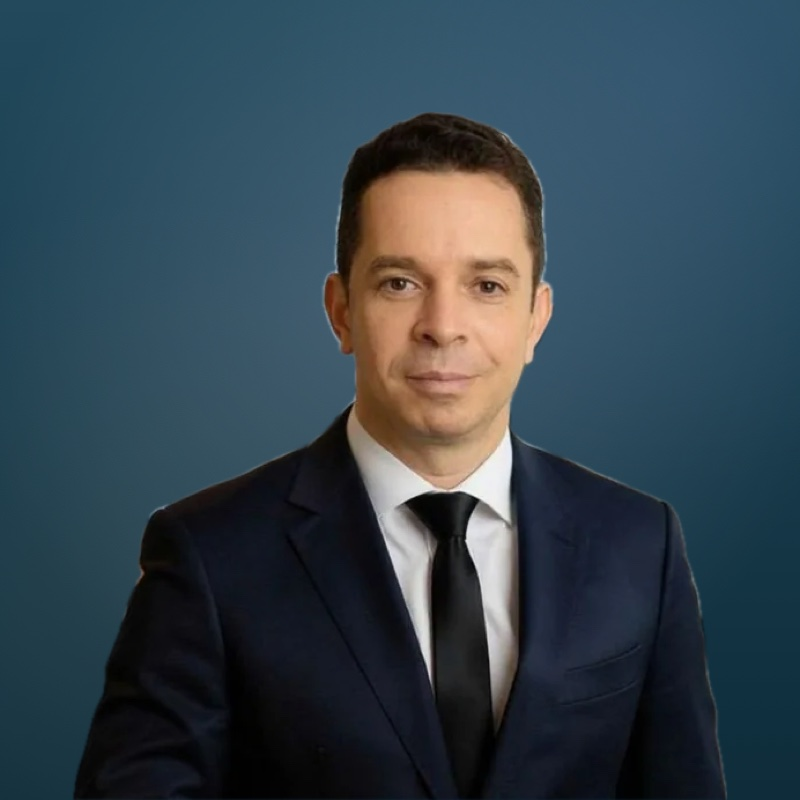
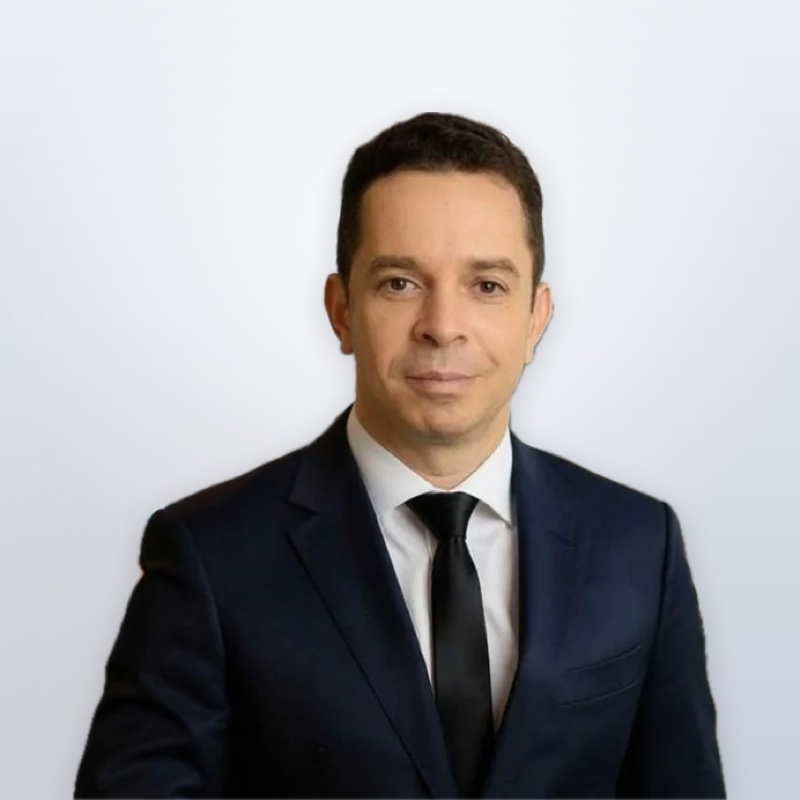
Fotos da equipe com fundo de estúdio claro
Fundo off-white e lilás, sombra suave atrás da pessoa e o mesmo enquadramento
nas quatro fotos. O recorte fica imperceptível e as roupas escuras se destacam.

diff --git a/index.html b/index.html
@@ -406,7 +406,7 @@
       <article class="team-card">
         <p class="team-fase">Antes do código</p>
         <div class="team-photo">
-          <img src="img/equipe/gileard.jpg?v=2" width="800" height="800" alt="Gileard Teixeira" loading="lazy">
+          <img src="img/equipe/gileard.jpg?v=3" width="800" height="800" alt="Gileard Teixeira" loading="lazy">
         </div>
         <div class="team-caption">
           <span class="role-tag">Sócio</span>
@@ -436,7 +436,7 @@
       <article class="team-card">
         <p class="team-fase">Na construção</p>
         <div class="team-photo">
-          <img src="img/equipe/jefferson.jpg?v=1" width="800" height="800" alt="Jefferson Pereira" loading="lazy">
+          <img src="img/equipe/jefferson.jpg?v=3" width="800" height="800" alt="Jefferson Pereira" loading="lazy">
         </div>
         <div class="team-caption">
           <span class="role-tag">Sócio</span>
@@ -465,7 +465,7 @@
       <article class="team-card">
         <p class="team-fase">Durante a relação</p>
         <div class="team-photo">
-          <img src="img/equipe/soraya.jpg?v=2" width="800" height="800" alt="Soraya Sá" loading="lazy">
+          <img src="img/equipe/soraya.jpg?v=3" width="800" height="800" alt="Soraya Sá" loading="lazy">
         </div>
         <div class="team-caption">
           <span class="role-tag">Sócia</span>
@@ -494,7 +494,7 @@
       <article class="team-card">
         <p class="team-fase">Em cada contrato</p>
         <div class="team-photo">
-          <img src="img/equipe/alexandre.jpg?v=1" width="800" height="800" alt="Alexandre Marques" loading="lazy">
+          <img src="img/equipe/alexandre.jpg?v=3" width="800" height="800" alt="Alexandre Marques" loading="lazy">
         </div>
         <div class="team-caption">
           <span class="role-tag">Sócio</span>
